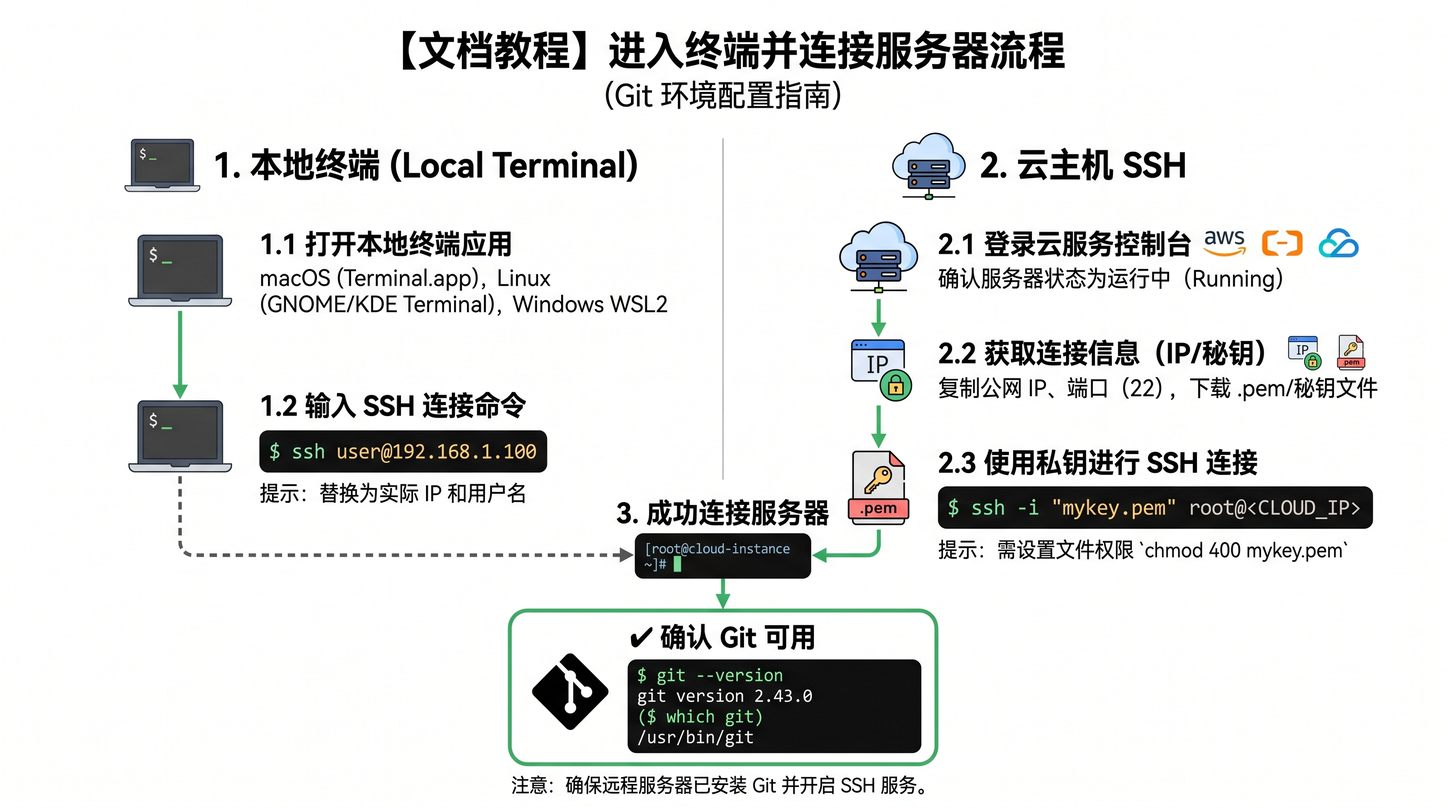
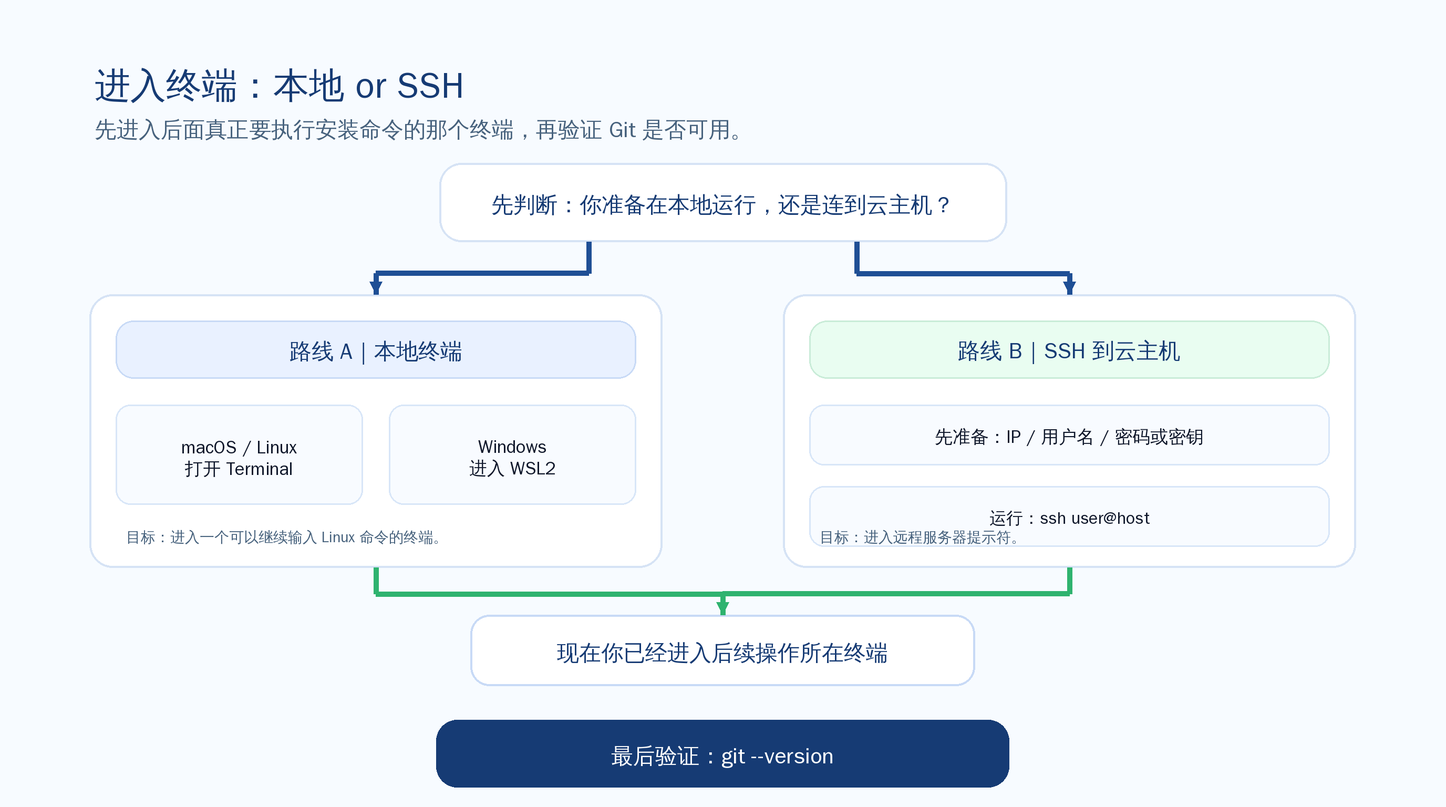
docs(rm2-2): redo connect terminal page

Changed region(s): [[0.0625, 0.0312, 0.9688, 1.0]]

diff --git a/docs/start-here/get-running/connect-terminal.md b/docs/start-here/get-running/connect-terminal.md
@@ -1,78 +1,25 @@
 # 进入终端并连接服务器
 
-这一步只解决一件事：让你站到一个可以继续安装 Hermes 的终端里。  
-**离开这页时，你应该已经进入正确终端，并且确认 Git 已经可用。**
+这一步只解决一件事：让你进入后面真正要执行安装命令的那个终端。
 
----
+![终端进入路线图：本地终端与 SSH 两条路径，最后统一验证 Git 是否可用](../assets/rm2-2-connect-terminal-01-local-vs-ssh-route.png)
 
-## <img src="../assets/icon-terminal-entry.svg" width="18" alt="终端图标" /> 先判断你现在走哪条路
+## 本地终端怎么进入
 
-先不要急着输命令，先判断你现在属于哪一种情况。
-
-![进入终端路线图：先判断你属于本地终端、WSL2 还是云主机 SSH，两条路径最后统一落到 Git 可用](../assets/rm2-2-connect-terminal-01-local-vs-ssh-route-gemini-v3.png)
-
-<table>
-  <colgroup>
-    <col style="width: 28%;" />
-    <col style="width: 32%;" />
-    <col style="width: 40%;" />
-  </colgroup>
-  <thead>
-    <tr>
-      <th>你的情况</th>
-      <th>这一步要做什么</th>
-      <th>什么时候算你已经能继续</th>
-    </tr>
-  </thead>
-  <tbody>
-    <tr>
-      <td>本地 macOS / Linux</td>
-      <td>打开本地终端</td>
-      <td>已经看到可输入命令的终端窗口</td>
-    </tr>
-    <tr>
-      <td>Windows WSL2</td>
-      <td>先进入 WSL2 的 Linux 终端</td>
-      <td>已经进入 Linux 风格提示符，不再停在 PowerShell / CMD</td>
-    </tr>
-    <tr>
-      <td>云主机</td>
-      <td>通过 SSH 登录服务器</td>
-      <td>已经进入远程服务器提示符</td>
-    </tr>
-  </tbody>
-</table>
-
-现在做什么：
-- 先对照上表，确认自己属于哪一种情况。
-- 没判断清楚前，不要直接跳到安装页。
-
-为什么做这一步：
-- 你后面输入的命令、看到的提示符、判断是否成功的方式，都取决于这里的路线。
-
-看到什么算成功：
-- 你已经能明确回答：自己现在走的是本地终端、WSL2，还是云主机 SSH。
-
-如果没看到这个结果，先检查什么：
-- 你是不是还没决定 Hermes 跑在本地还是云主机。
-- 你是不是把 Windows 原生命令行和 WSL2 终端混在一起了。
-
----
-
-## <img src="../assets/icon-terminal-entry.svg" width="18" alt="本地终端图标" /> 本地终端怎么进入
+如果你准备把 Hermes 跑在自己的电脑上，这一步的目标不是“研究终端”，而是先真的进入一个可以继续执行命令的终端窗口。
 
 ### macOS / Linux
 
 现在做什么：
 - macOS 打开 Terminal，或者你平时使用的 iTerm2。
-- Linux 打开系统自带终端。
+- Linux 打开系统自带终端，或者你平时使用的终端工具。
 
 为什么做这一步：
-- 后面的命令必须在真正的终端里执行，不是在浏览器里执行。
+- 后面的安装命令必须在真正的终端里执行，不是在浏览器、文档页面或者聊天窗口里执行。
 
 看到什么算成功：
 - 你已经看到一个可以输入命令的终端窗口。
-- 光标停在提示符后面，允许继续输入命令。
+- 光标停在提示符后面，可以继续输入命令。
 
 如果没看到这个结果，先检查什么：
 - 你是不是打开了别的应用，而不是终端。
@@ -82,29 +29,42 @@
 
 现在做什么：
 - 打开 Windows Terminal 或你常用的终端工具。
-- 进入 WSL2 的 Linux 终端。
+- 进入 WSL2 的 Linux 终端，不要停在 PowerShell 或 CMD。
 
 为什么做这一步：
-- 这套教程后面的命令按 Linux 终端来执行，不是在 PowerShell 或 CMD 里执行。
+- 这套教程后面的命令按 Linux 终端来执行；如果你还停在 Windows 原生命令行里，后面的安装和判断很容易跑偏。
 
 看到什么算成功：
 - 你已经进入 WSL2 的 Linux 终端。
-- 提示符已经是 Linux 风格，可以继续输入 Linux 命令。
+- 当前提示符已经是 Linux 风格，可以继续输入 Linux 命令。
 
 如果没看到这个结果，先检查什么：
 - 你是不是还停在 PowerShell / CMD。
 - WSL2 是否已经正确安装并能正常启动。
 
-> <img src="../assets/icon-terminal-entry.svg" width="16" alt="终端提示图标" /> 如果你走的是本地 / WSL2 路线，这一页通过的关键不是“看懂终端是什么”，而是你已经真的进入了可以继续执行命令的终端。
+## 云主机怎么连接
 
----
+如果你准备把 Hermes 跑在云主机上，这一步的目标就是先真正进入远程服务器终端。
 
-## <img src="../assets/icon-cloud-ssh.svg" width="18" alt="云主机 SSH 图标" /> 云主机怎么连接
-
-如果你走的是云主机路线，先准备这三样：
+先准备这三样：
 - 服务器公网 IP
 - 登录用户名
 - 密码，或者密钥文件
+
+现在做什么：
+- 先确认这三项信息已经在手边，再执行 SSH 登录。
+
+为什么做这一步：
+- 如果你还没拿到这些信息，后面根本无法进入正确服务器，也没法判断安装到底装在了哪台机器上。
+
+看到什么算成功：
+- 你已经具备执行 SSH 登录的最小前提。
+
+如果没看到这个结果，先检查什么：
+- 云主机是否已经创建完成。
+- 公网 IP、用户名、密钥路径是否已经拿到。
+
+## SSH 示例
 
 最基础的连接命令是：
 
@@ -118,14 +78,15 @@ ssh 用户名@服务器IP
 ssh -i /你的密钥路径 用户名@服务器IP
 ```
 
-![SSH 登录成功截图：先看到 ssh 连接命令，再看到远程服务器提示符和 hostname 返回](../assets/rm2-2-connect-terminal-02-ssh-login-success.png)
+![SSH 登录成功截图：执行 ssh 连接命令后，已经进入远程服务器提示符](../assets/rm2-2-connect-terminal-02-ssh-login-success.png)
 
 现在做什么：
 - 在当前终端里执行 SSH 命令。
 - 第一次连接时，如果提示是否信任主机指纹，确认无误后再继续。
+- 登录成功后，执行一次 `hostname`，确认自己已经站在远程服务器里。
 
 为什么做这一步：
-- 只有真正进入远程服务器，你后面的安装才是在正确机器上完成。
+- 只有真正进入远程服务器，后面的安装才是在正确机器上完成，而不是误装在本地终端里。
 
 看到什么算成功：
 - 你的提示符已经从本地终端变成远程服务器提示符。
@@ -136,17 +97,15 @@ ssh -i /你的密钥路径 用户名@服务器IP
 - 你是不是根本没有真正进入远程 shell。
 - 安全组、防火墙是否允许 SSH 连接。
 
----
+## 如何确认已经进入正确终端
 
-## <img src="../assets/icon-check-success.svg" width="18" alt="成功检查图标" /> 怎么确认你已经进入正确终端
-
-无论你走哪条路，这一页最后都要做同一个检查：
+无论你走的是本地终端还是云主机 SSH，这一页最后都要做同一个检查：
 
 ```bash
 git --version
 ```
 
-![Git 可用成功截图：已经登录服务器，在远程提示符下执行 git --version 并返回版本号](../assets/rm2-2-connect-terminal-03-ssh-git-success.png)
+![Git 可用成功截图：当前终端里执行 git --version 后返回版本号](../assets/rm2-2-connect-terminal-03-ssh-git-success.png)
 
 现在做什么：
 - 在你当前所在的终端里执行 `git --version`。
@@ -162,16 +121,14 @@ git --version
 - 你是不是还没进入正确终端。
 - 你是不是还没装 Git。
 
----
-
-## <img src="../assets/icon-check-success.svg" width="18" alt="最小检查图标" /> 常见连接问题先查这几件事
+## 常见连接问题最小检查
 
 如果你还没通过这一页，先只查最小的 4 件事：
 
-1. 我现在是不是已经进入正确终端了。
-2. 如果是云主机，我是不是已经真的进入远程服务器提示符了。
+1. 我现在是不是已经进入后面真正要继续操作的那个终端。
+2. 如果是云主机路线，我是不是已经真的进入远程服务器提示符了。
 3. `git --version` 有没有正常返回版本号。
-4. 如果 Git 没装，我有没有先补装再重查。
+4. 如果 Git 还没装，我有没有先补装再重查。
 
 如果你现在还没有安装 Git，可以先执行：
 
@@ -195,14 +152,12 @@ sudo dnf install -y git
 ### macOS
 系统第一次执行 `git` 时，通常会提示安装开发者工具。按提示完成后，再重新执行一次 `git --version`。
 
----
-
-## 👉 下一步
+## 下一步
 
 当下面两件事同时成立，这一页就算通过：
 
-1. 你已经进入一个可以继续执行命令的正确终端。  
-2. `git --version` 已经能正常返回版本号。  
+1. 你已经进入一个可以继续执行命令的正确终端。
+2. `git --version` 已经能正常返回版本号。
 
 下一步：
 - [把 Hermes 装上去](./install-hermes.md)
